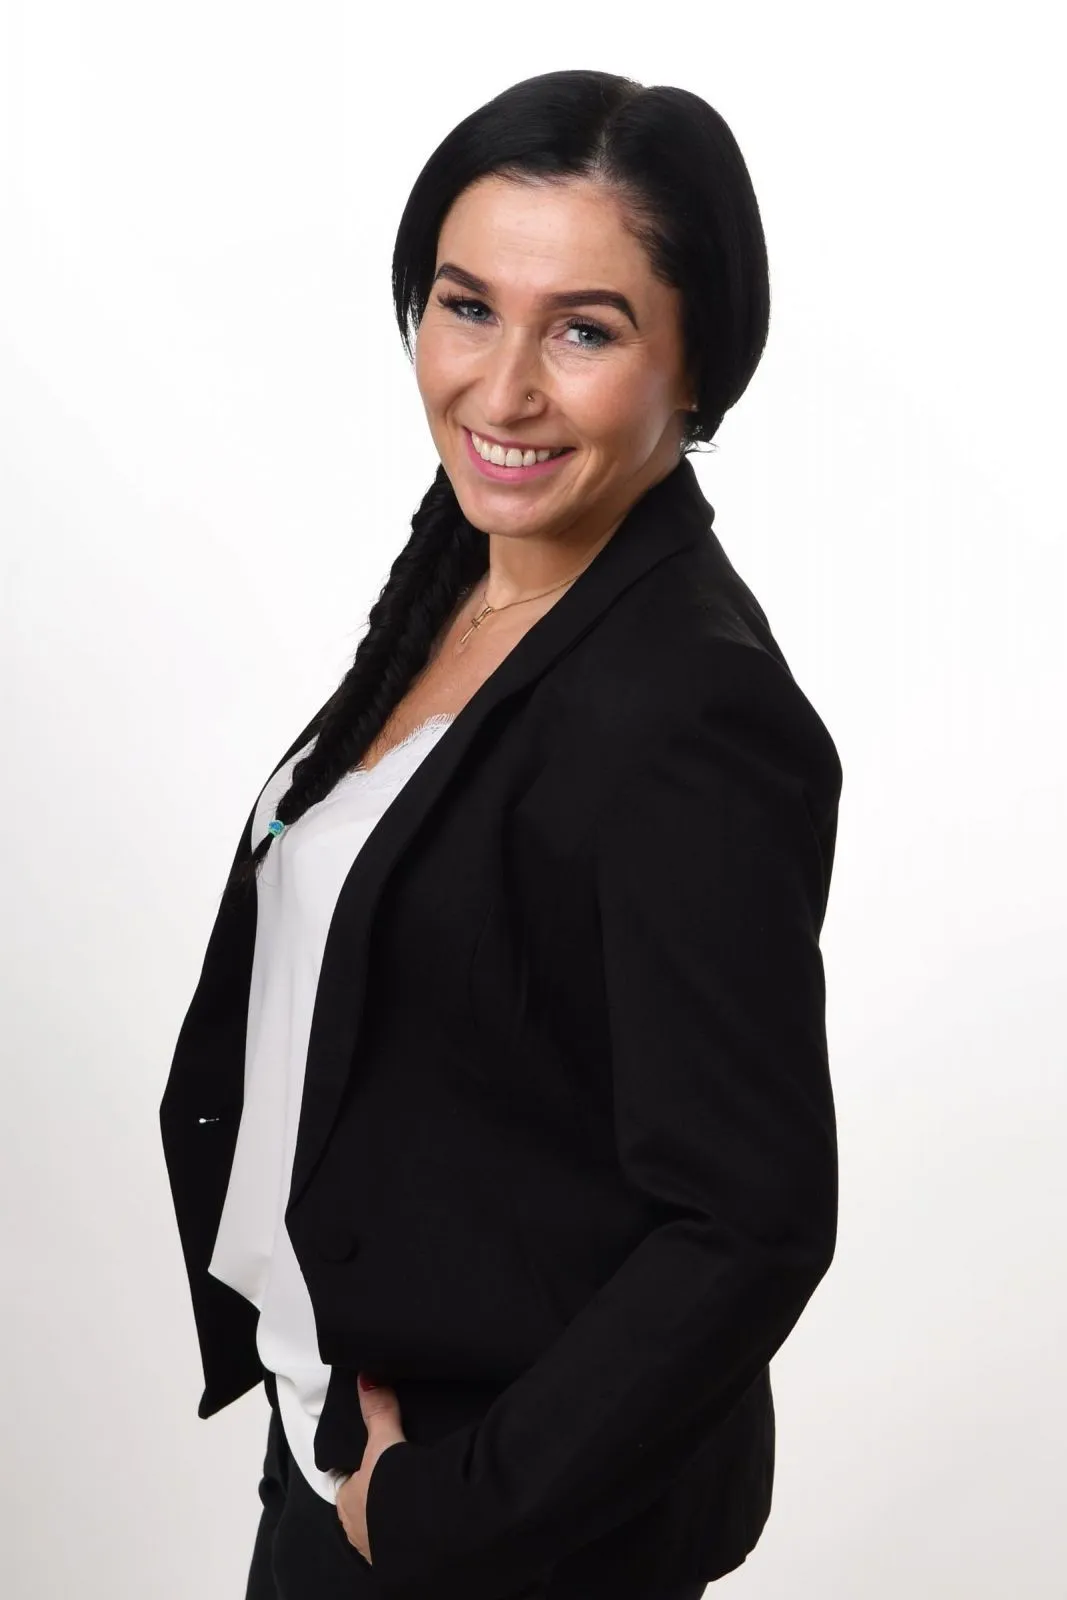
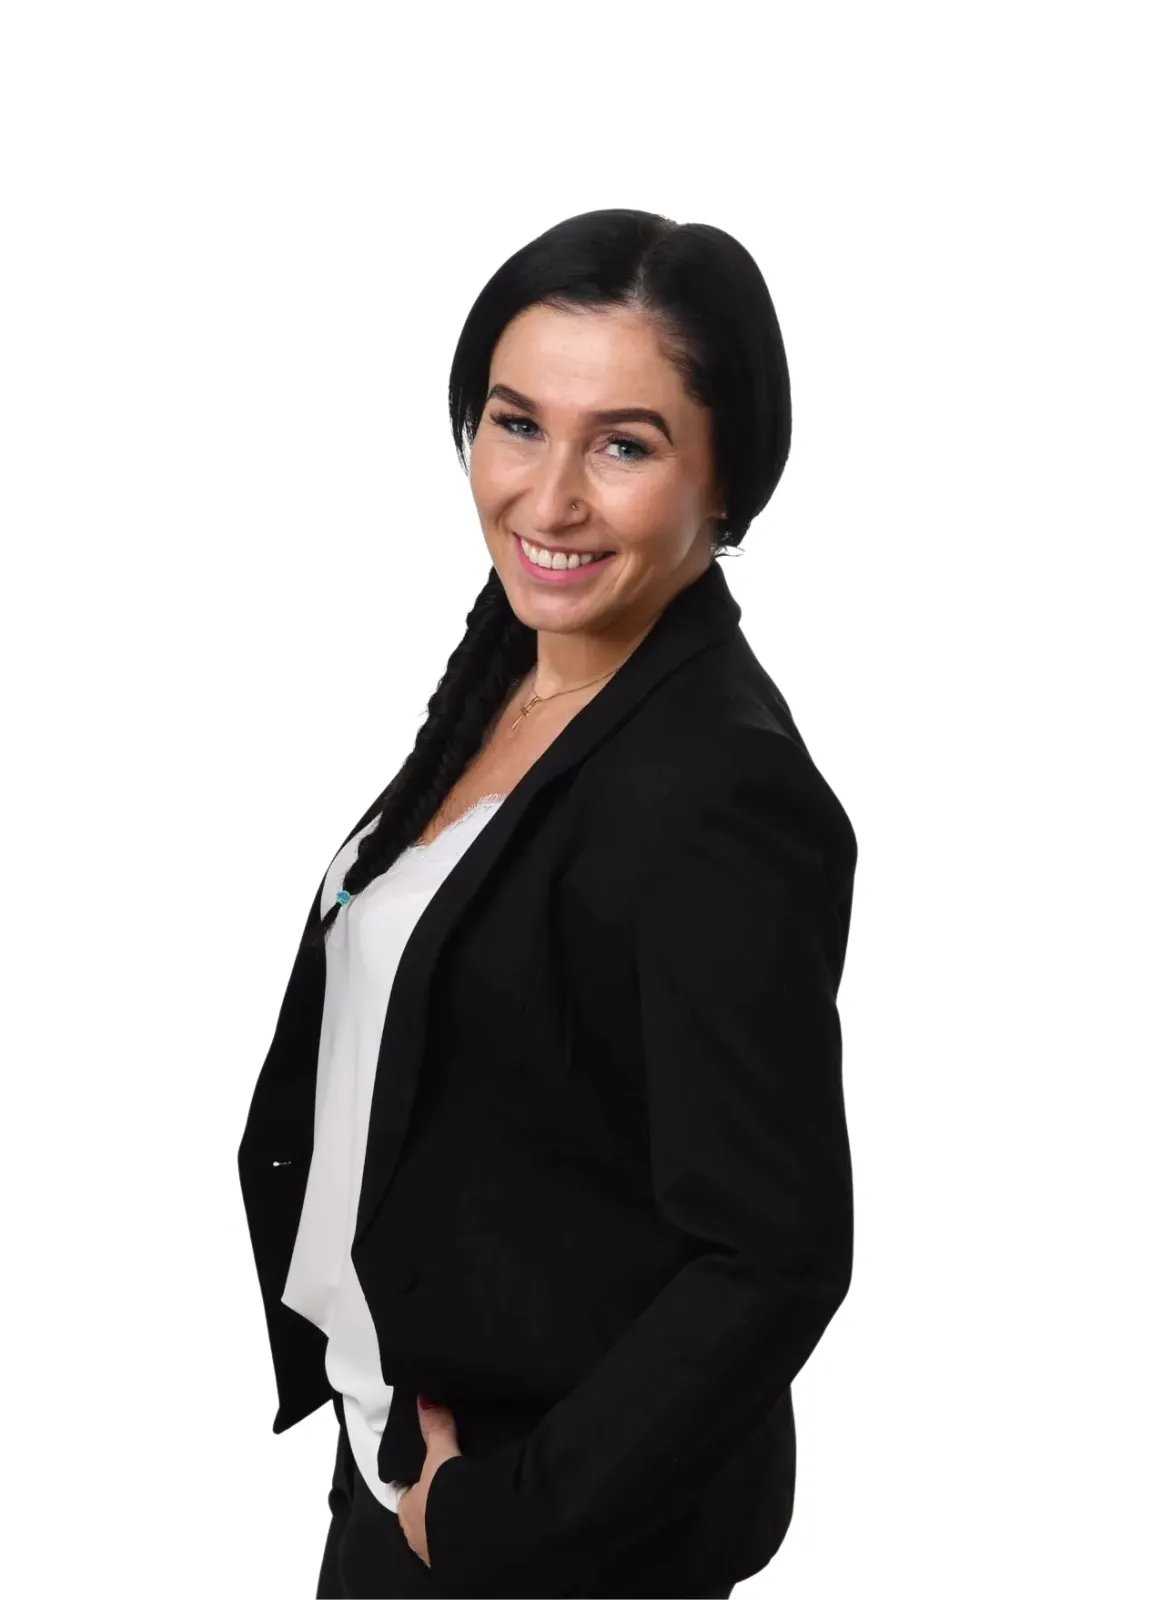
style: position Petr Nevole's photo higher and commit optimized webp files

diff --git a/src/components/Team.jsx b/src/components/Team.jsx
@@ -72,7 +72,8 @@ const Team = () => {
             email: '[email redacted]', 
             photo: '/Rodanova tym fotka.webp', 
             objectPosition: 'center 20%',
-            yOffset: '35px',
+            transformDefault: 'scale(1.12) translateY(3%)',
+            transformHover: 'scale(1.22) translateY(3%)',
             desc: "U každé finanční analýzy přemýšlím o konkrétních lidech a zaměřuji se na jejich skutečné životní příběhy a sny, nikoliv jen na chladná čísla a grafy. Jako leader kolínské kanceláře Leaders Finance vnímám finanční výsledky jako projev vaší důvěry a společný krok k bezpečné budoucnosti.\n\nSvoji práci stavím na lidskosti, férovosti a společných hodnotách. Věřím, že skutečný poradce nejdřív naslouchá a teprve potom pomáhá. Jak ráda říkám: „Smlouva není podpis. Smlouva je závazek. A servis je klíč.“\n\nSilně věřím ve finanční nezávislost – zejména žen. Dnes vedu tým profesionálů, kteří chtějí víc než jen práci. Společně rosteme a já jim s hrdostí pomáhám ukazovat cestu." 
         },
         { 
@@ -97,8 +98,9 @@ const Team = () => {
             phone: '777 567 666', 
             email: '[email redacted]', 
             photo: '/Nevole - rodanova.webp', 
-            objectPosition: 'center 70%',
-            yOffset: '-35px',
+            objectPosition: 'center 85%',
+            transformDefault: 'scale(1.4) translateY(-14%)',
+            transformHover: 'scale(1.5) translateY(-14%)',
             desc: "V oblasti finančního poradenství působím už od roku 2008 a za tu dobu jsem si vybudoval pozici zkušeného TOP konzultanta. Svým klientům se věnuji komplexně – od ochrany příjmů a rodiny až po dlouhodobé finanční plánování. Právě investice a zhodnocování majetku jsou navíc mou velkou profesní i osobní vášní.\n\nVěřím, že kvalitní poradenství není o rychlém prodeji, ale o dlouhodobé důvěře, lidském přístupu a správně nastavené strategii pro každou životní etapu. Chci být pro své klienty partnerem, na kterého se mohou spolehnout v jakékoli situaci.\n\nKdyž zrovna nepracuji, trávím čas nejraději se svou rodinou, dětmi a zvířaty, která jsou pro mě tou nejdůležitou součástí života a zdrojem energie." 
         },
         { 
@@ -108,7 +110,8 @@ const Team = () => {
             email: '[email redacted]', 
             photo: '/Minarcik - rodanova.webp', 
             objectPosition: 'center 25%',
-            yOffset: '30px',
+            transformDefault: 'scale(1.12) translateY(3%)',
+            transformHover: 'scale(1.22) translateY(3%)',
             desc: "Věřím, že finance nejsou jen o číslech a grafech, ale především o lidských příbězích, rodinách a splněných snech. Právě proto ke své práci přistupuji jinak – odmítám univerzální šablony a tabulková řešení, protože každý člověk i jeho životní cíle jsou jedinečné.\n\nNechci být poradcem, kterého slyšíte jen ve chvíli, kdy je potřeba podepsat smlouvu. Zakládám si na upřímnosti, přirozené komunikaci a dlouhodobých vztazích. Chci pro vás být partnerem, kterému můžete kdykoliv zavolat, když potřebujete radu nebo jistotu.\n\nDnešní svět je rychlý a finance složité. O to víc věřím, že lidé nepotřebují anonymní přístup, ale parťáka, který jim složité věci vysvětlí jednoduše, jedná fér a opravdu jim stojí po boku. A přesně na tom stavím svou práci." 
         },
         { 
@@ -240,11 +243,12 @@ const Team = () => {
                     scrollbar-color: rgba(182, 158, 87, 0.35) rgba(255, 255, 255, 0.03);
                 }
                 .team-member-img {
-                    transform: translateY(var(--y-offset, 0px)) scale(1.18);
-                    transition: transform 1200ms cubic-bezier(0.25, 1, 0.5, 1) !important;
+                    object-position: var(--img-object-position, center);
+                    transform: var(--img-transform-default, scale(1));
+                    transition: transform 1200ms cubic-bezier(0.23, 1, 0.32, 1), opacity 700ms ease;
                 }
                 .team-card:hover .team-member-img {
-                    transform: translateY(var(--y-offset, 0px)) scale(1.28) !important;
+                    transform: var(--img-transform-hover, scale(1.1));
                 }
             `}</style>
             
@@ -288,10 +292,11 @@ const Team = () => {
                                     <img 
                                         src={member.photo} 
                                         alt={member.name} 
-                                        className="absolute inset-0 w-full h-full object-cover team-member-img opacity-75 group-hover:opacity-30 z-0" 
-                                        style={{ 
-                                            objectPosition: member.objectPosition || 'center',
-                                            '--y-offset': member.yOffset || '0px'
+                                        className="absolute inset-0 w-full h-full object-cover opacity-75 group-hover:opacity-30 z-0 team-member-img" 
+                                        style={{
+                                            '--img-object-position': member.objectPosition || 'center',
+                                            '--img-transform-default': member.transformDefault || 'scale(1)',
+                                            '--img-transform-hover': member.transformHover || 'scale(1.1)'
                                         }}
                                         loading="lazy"
                                     />